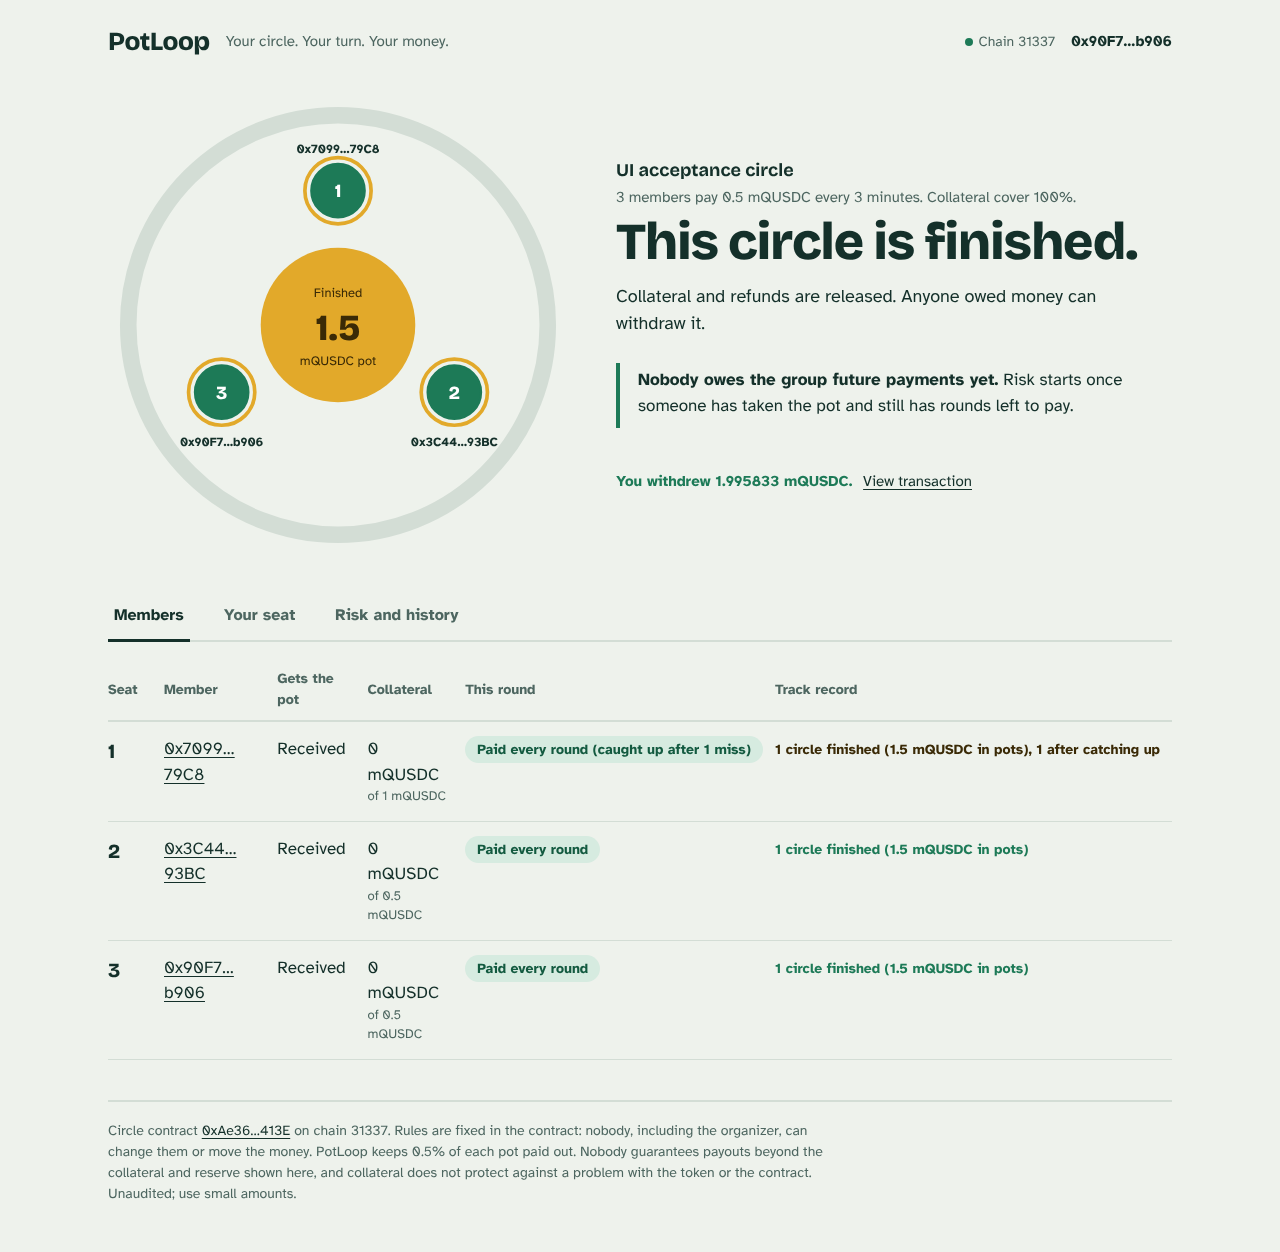
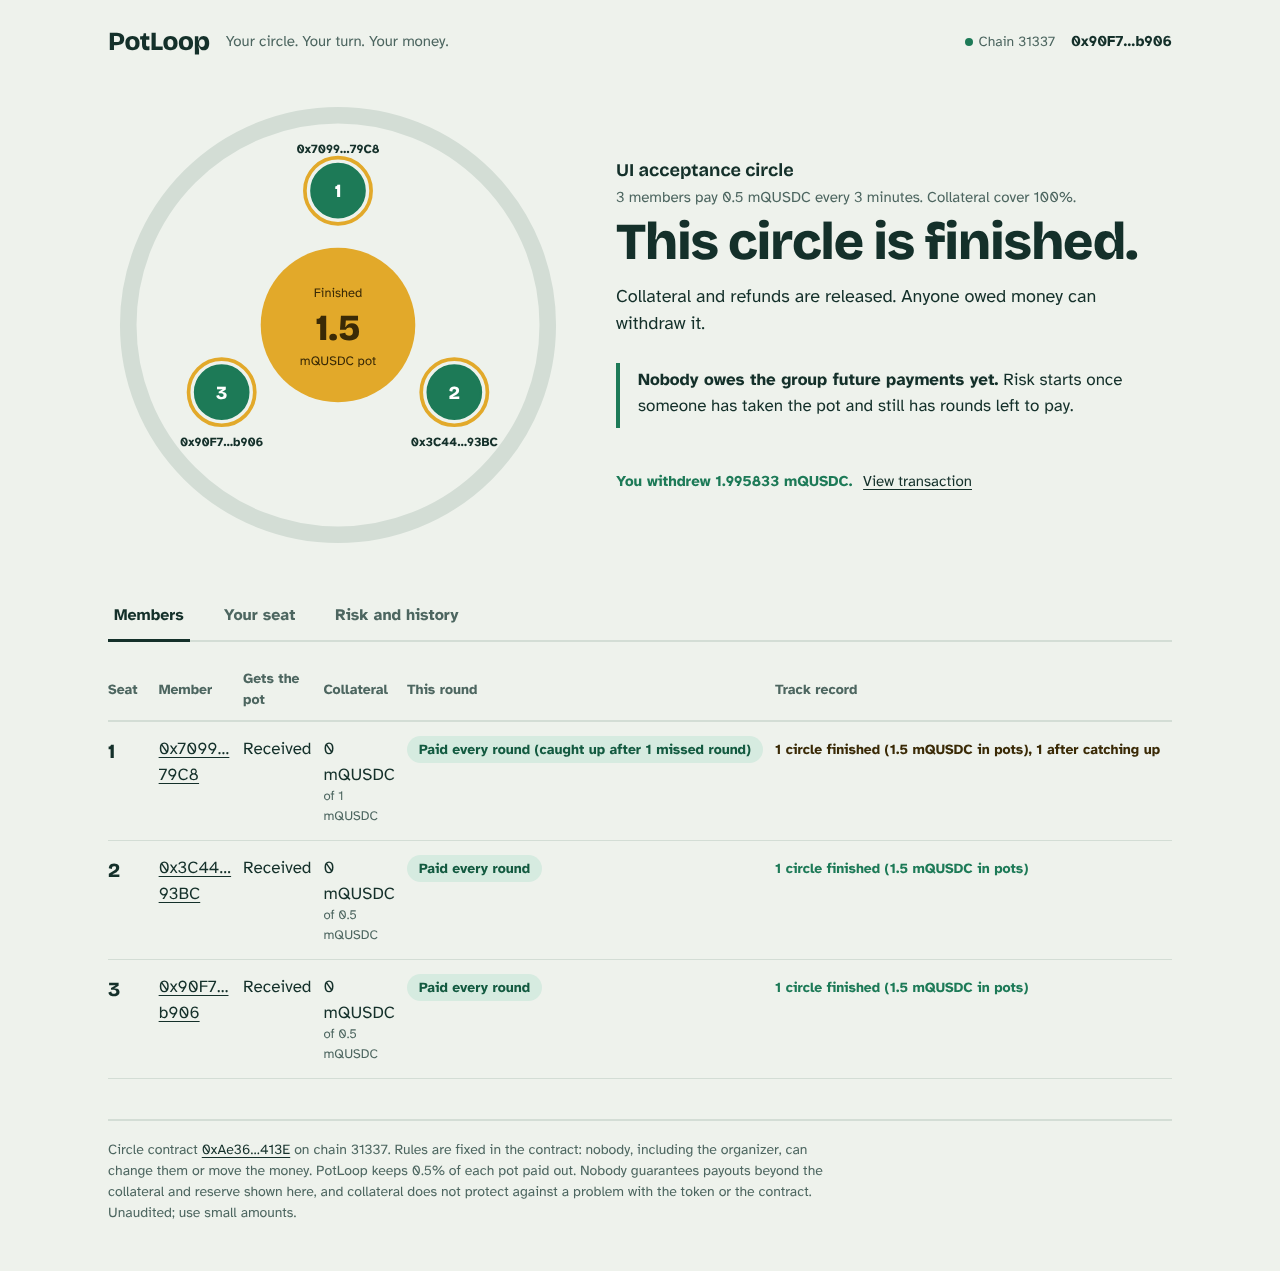
UI acceptance 23/23: cover the Risk and history tab
New E2E-23 opens every tab of a finished circle that had a default and a
catch-up. It fails on the old code (circle is not defined) and passes now.
Returned collateral gets a sentence; members table says missed rounds.

Claude-Session: https://claude.ai/code/session_01HZ6MjGcYqak8c9e7o3LMVb

diff --git a/app/src/CirclePage.jsx b/app/src/CirclePage.jsx
@@ -421,7 +421,7 @@ function memberState(circle, m) {
   if (m.status === STATUS.POST)
     return m.paidThisRound ? ["late", `Paying again, ${plural(m.missedRounds, "missed round")} to catch up`] : ["ran", "Behind: collateral is paying"];
   if (circle.phase === "Open") return m.accepted ? ["ready", "Accepted"] : ["empty", "Not accepted yet"];
-  const caughtUp = m.missedRounds > 0 ? ` (caught up after ${plural(m.missedRounds, "miss")})` : "";
+  const caughtUp = m.missedRounds > 0 ? ` (caught up after ${plural(m.missedRounds, "missed round")})` : "";
   if (circle.phase !== "Active" || circle.allRoundsSettled) return ["done", `Paid every round${caughtUp}`];
   if (m.paidThisRound) return ["paid", `Paid round ${circle.currentRound}${caughtUp}`];
   return ["due", `Not paid yet${caughtUp}`];
@@ -572,6 +572,7 @@ function eventText(e, who, money, circle) {
     case "RoundSettled": return `Round ${a.round} settled. Reserve now ${money(a.freeReserveAfter)}.`;
     case "LossRecorded": return `${money(a.amount)} could not be recovered for ${who(a.recipient)}.`;
     case "RefundCredited": return `${who(a.defaulter)} gets back ${money(a.amount)} of their ${money(a.claim)}.`;
+    case "CollateralReturned": return `${who(a.member)} got back ${money(a.amount)} of collateral.`;
     case "Finalized": return "The circle finished. Collateral and refunds were released.";
     case "Cancelled": return "The circle was cancelled. Deposits were released.";
     case "Withdrawn": return `${who(a.account)} withdrew ${money(a.amount)}.`;

diff --git a/UI_E2E_REPORT.md b/UI_E2E_REPORT.md
@@ -1,6 +1,6 @@
 # UI acceptance report (automated)
 
-**Result: 22 of 22 cases pass** on the production build of the app, after two app bugs found by this suite were fixed. Raw results: `evidence/v93-release/ui-e2e/results.json`, a screenshot per case, and the browser console log.
+**Result: 23 of 23 cases pass** on the production build of the app, after three app bugs were fixed (two found by this suite, one found on the live app on 23 Nov 2026 and now covered by E2E-23). Raw results: `evidence/v93-release/ui-e2e/results.json`, a screenshot per case, and the browser console log.
 
 ## What was tested, and how
 
@@ -41,6 +41,7 @@
 | E2E-20 | RPC unreachable | PASS | "Can't reach the QIE network right now…" and "Can't read the circle right now"; no action buttons; a genuine circle is **not** called fake |
 | E2E-21 | Circle not created by the official factory | PASS | Refused with a warning; no actions |
 | E2E-22 | URL tries to set factory and RPC | PASS | Ignored by the production build |
+| E2E-23 | Every tab of a finished circle that had a default and a catch-up | PASS | No page errors; 28 history lines, the default and the catch-up described in words, no event shown by its raw name |
 
 ## Bugs found by this suite and fixed (app only; no contract change)
 
@@ -48,6 +49,8 @@
 | --- | --- | --- | --- |
 | Medium | With the RPC unreachable, a **genuine circle was shown as "not a circle created by PotLoop's official factory. Don't approve or send anything to it."** The failed `isCircle` call was treated as "no". The header also said the network was the wrong chain rather than unreachable. In a demo or a pilot this tells members their real circle is a scam | `loadCircle` no longer swallows the factory lookup error (it becomes "Can't read the circle right now"); `verifyNetwork` distinguishes unreachable (`null`) from the wrong chain (`false`); new message for unreachable | Seen in the first full run on the original code (its screenshot showed the warning on the genuine circle; that run's files were overwritten by later runs). Passes now |
 | Low | A refresh requested while another was running was dropped, so the screen could lag. After an action, "Record results" stayed visible and a second press gave a correct but confusing "already recorded" error. After an **account switch in the wallet**, the previous account's view and buttons could stay on screen for 15 s or more | A refresh asked for during another one now runs right after it | E2E-16 failed on the original code ("record button still offered"). The current suite run against the original app (commit `2cfb6b2`) fails 12 of 22, starting with the new account's "accept seat 2" button not appearing within 30 s: `evidence/v93-release/ui-e2e-before-fix/`. All pass after the fix |
+
+| High | Opening **Risk and history** on any circle that had paid a pot showed a **blank page**. The history text for a payout read `circle.fromPayout`, but the function that writes it was never given the circle (`ReferenceError: circle is not defined`). Found while filming the demo on the 7 mainnet circles; the suite had never opened that tab. Also: returned collateral was listed by its raw event name, and the members table said "2 misss" | The circle is passed to `eventText`; `CollateralReturned` has a sentence; the members table says "missed rounds" | New case E2E-23 fails on the old code ("page error on Risk and history: circle is not defined") and passes now. All 3 tabs checked on all 7 mainnet circles with no page errors |
 
 ## Observations, not changed
 

diff --git a/README.md b/README.md
@@ -23,7 +23,7 @@ A non-custodial savings circle (committee, stokvel, tanda, ROSCA) on QIE, paid i
 | **Recommendation** | **Ready for a hackathon demonstration. Not ready for an external pilot or production.** Reasons and evidence: [`FINAL_RELEASE_READINESS.md`](FINAL_RELEASE_READINESS.md) |
 | QIE mainnet | Demo factory `0xD099c7361157Ec20a9Ac145aF4B66Af553AeDae4` (block 12,109,975). **The factory's source is verified on the explorer** ([code](https://mainnet.qie.digital/address/0xD099c7361157Ec20a9Ac145aF4B66Af553AeDae4#code)), and its verified source bundle includes `SavingsCircle.sol` and `CircleDeployer.sol`. The deployer and the 7 circles are **not individually verified**: QIE's explorer does not index contracts created by other contracts. Instead, their on-chain bytecode was matched against this build (`MAINNET_DEPLOYMENT_RECONCILIATION.md`). Demo rules: 60 s rounds, 0% minimum cover, 0.01 QUSDC minimum, 0.5% fee. Its treasury key was exposed ([`SECURITY_INCIDENT_AND_KEY_ROTATION.md`](SECURITY_INCIDENT_AND_KEY_ROTATION.md)), so it stays a demo factory |
 | Mainnet runs | 7 circles with real QUSDC. **511 transactions in total**: 508 in the test runs S1–S7, 1 factory deployment and 2 returning the funds; 510 succeeded and 1 reverted (a late payment in S5). S1–S4 passed; S5 failed (a payment arrived after a 60 s deadline); S6 finished S5's circle; S7 repeated S5 and passed. Reconciled from receipts and QUSDC transfer logs: [`MAINNET_FINANCIAL_RECONCILIATION.md`](MAINNET_FINANCIAL_RECONCILIATION.md) |
-| Local evidence (this source) | 142 tests passing, 6 pending, including 19 new release-acceptance tests; 1,500 random invariant runs; 15/15 mutations caught; exhaustive suite 46,656/46,656 patterns; Slither (13 known items); UI acceptance 22/22 on the production build: [`LOCAL_FORK_EDGE_CASE_REPORT.md`](LOCAL_FORK_EDGE_CASE_REPORT.md), [`UI_E2E_REPORT.md`](UI_E2E_REPORT.md) |
+| Local evidence (this source) | 142 tests passing, 6 pending, including 19 new release-acceptance tests; 1,500 random invariant runs; 15/15 mutations caught; exhaustive suite 46,656/46,656 patterns; Slither (13 known items); UI acceptance 23/23 on the production build: [`LOCAL_FORK_EDGE_CASE_REPORT.md`](LOCAL_FORK_EDGE_CASE_REPORT.md), [`UI_E2E_REPORT.md`](UI_E2E_REPORT.md) |
 | Not done | Independent audit; manual QIE Wallet acceptance by a person ([`POTLOOP_UAT_PLAN.md`](POTLOOP_UAT_PLAN.md)); a production factory ([`PRODUCTION_FACTORY_RECOMMENDATION.md`](PRODUCTION_FACTORY_RECOMMENDATION.md)) |
 
 ## What's new in v9.3 (release readiness)

diff --git a/FINAL_RELEASE_READINESS.md b/FINAL_RELEASE_READINESS.md
@@ -16,7 +16,7 @@
   - The exhaustive suite: all 6 combinations of collateral mode and 0/50/100% cover, 46,656 of 46,656 default patterns passed, every process exiting 0.
   - Slither (13 known, reviewed items).
   - Raw logs and exit codes in `evidence/v93-release/` (`LOCAL_FORK_EDGE_CASE_REPORT.md`).
-- **The real app works end to end.** The production build passed 22/22 browser cases, from connecting a wallet to withdrawing: wrong network, rejected signature, pending transaction, RPC failure, refresh and disconnect. Two app bugs found this way were fixed (`UI_E2E_REPORT.md`).
+- **The real app works end to end.** The production build passed 23/23 browser cases, from connecting a wallet to withdrawing: wrong network, rejected signature, pending transaction, RPC failure, refresh and disconnect. Two app bugs found this way were fixed (`UI_E2E_REPORT.md`).
 - **History recording works**, locally and on a local copy of mainnet against all 7 real circles (34/34), without moving money.
 
 ### Why not a pilot yet

diff --git a/LOCAL_FORK_EDGE_CASE_REPORT.md b/LOCAL_FORK_EDGE_CASE_REPORT.md
@@ -27,7 +27,7 @@ No mainnet transaction was sent for anything in this report.
 | App build | `cd app && npm run build` | 0 | built |
 | Secret scan | `node scripts/release-scan.js` | 0 | PASS |
 | Exhaustive suite, all 6 combinations | see the next section | 0 for every combination | **46,656 of 46,656 patterns passed** |
-| UI acceptance | `node app/e2e/run-e2e.cjs` | 0 | 22/22 (`UI_E2E_REPORT.md`) |
+| UI acceptance | `node app/e2e/run-e2e.cjs` | 0 | 23/23 (`UI_E2E_REPORT.md`) |
 | Local copy of mainnet | `scripts/fork-release-checks.js` (`PART=record`, `twelve`, `upfront`) | 0 | 49 checks, 0 failed (below) |
 
 ### Exhaustive suite: every default pattern for 5 members
